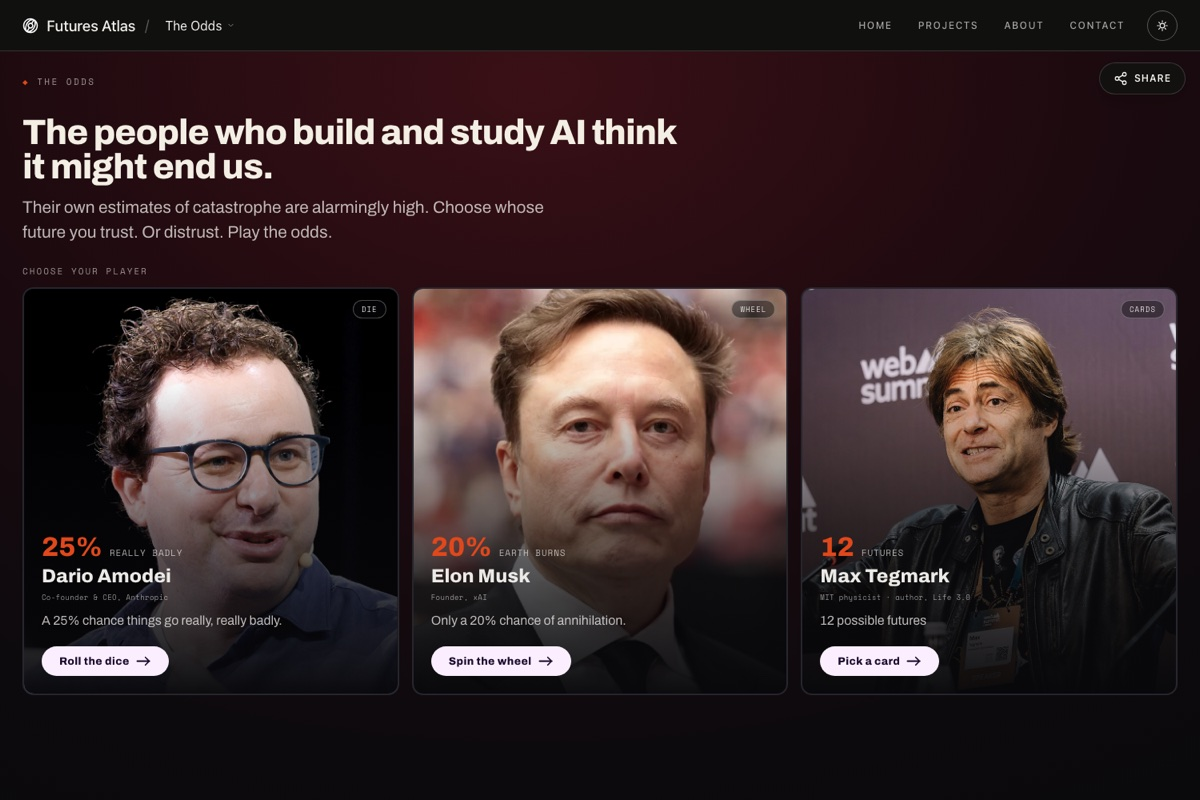
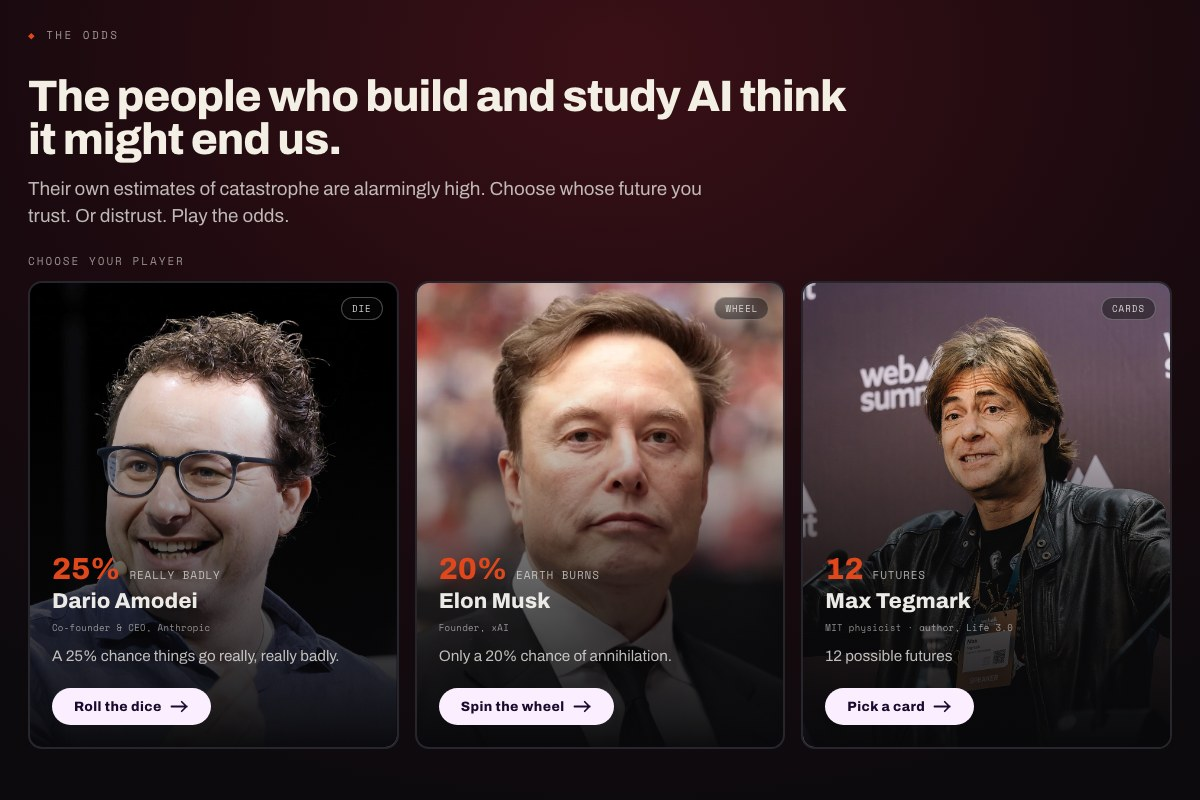
The Odds: fix mobile doom-video full-bleed, dice legend legibility, Dario portrait consistency; add real play-stats page; gate TEST buttons off production; clean project-card thumbnail + CTA
- .od-portrait-loop was missing from the mobile portrait-band CSS, so the doom loop clip fell back to full-bleed instead of staying in its 40vw band
- dice legend (1-9/10-12 key) was 8.5px on mobile and getting clipped; bumped to 10.5px
- Dario's chooser/hero photo didn't match his portraitPoster/video first frame; unified on dario-first.jpg for a seamless transition
- new /theodds/stats page + /api/theodds/stats (KV-backed, same pattern as feed polls) tracks real play/doom counts; shows "not configured" honestly rather than a fabricated number
- TEST good/bad buttons now hidden only on the production hostname (futures-atlas-02.vercel.app), still visible on localhost/staging/drafts
- re-shot the project-card thumbnail without the navbar in frame; card CTA is now overridable per-project ("Play the odds" for this one)

diff --git a/public/odds-of-surviving-ai/index.html b/public/odds-of-surviving-ai/index.html
@@ -202,8 +202,10 @@ body.od-menu-open .od-extinctions{display:none!important}
   .od-photo{flex:0 0 32%!important;height:auto!important;min-height:0;
     display:flex!important;flex-direction:row;align-items:stretch;gap:0;padding:0!important;background:#08080a;overflow:hidden}
   .od-photo-scrim{display:none!important}
-  /* portrait = left 40%; the video portraits (Elon/Dario) match the photo layout instead of going full-bleed */
-  .od-hero-img,.od-portrait-vid{position:relative!important;inset:auto!important;height:100%!important;width:auto!important;
+  /* portrait = left 40%; the video portraits (Elon/Dario) match the photo layout instead of going full-bleed.
+     .od-portrait-loop must match: it's the loop clip swapped in once the one-shot doom video ends, over the
+     same box — without it here it falls back to its inline full-bleed style and the panel jumps to 100vw. */
+  .od-hero-img,.od-portrait-vid,.od-portrait-loop{position:relative!important;inset:auto!important;height:100%!important;width:auto!important;
     aspect-ratio:3/4;max-width:40vw;flex:none!important;border-radius:0!important;object-fit:cover!important;object-position:50% 18%!important;background:#08080a}
   /* info = right 60%, on black with a red glow. The glow is tucked into the TOP-right corner and dies
      out before the bottom edge — down there the band meets the game panel's blue sky, and a warm
@@ -246,7 +248,7 @@ body.od-menu-open .od-extinctions{display:none!important}
   .od-result{gap:4px!important}
   .od-key{margin-bottom:5px!important}
   .od-key--drawn{display:none!important}   /* card is face-up: give its description the room */
-  .od-key-labels{font-size:8.5px!important;gap:12px;letter-spacing:0.04em!important}
+  .od-key-labels{font-size:10.5px!important;gap:12px;letter-spacing:0.03em!important}
   .od-key-labels span{flex:1 1 0;min-width:0}                         /* let the long "REALLY, REALLY BAD" wrap, not clip */
   .od-key-labels span:last-child{text-align:right}
   .od-rhead{font-size:clamp(15px,2.2vh,19px)!important}
@@ -280,8 +282,10 @@ body.od-menu-open .od-extinctions{display:none!important}
 .od-landing{height:calc(100dvh - var(--fa-nav-h, 56px));overflow:hidden;display:flex;flex-direction:column;align-items:center;background:radial-gradient(ellipse 70% 75% at 50% 14%, #3a1016 0%, #1c0a0f 38%, #0c0a0d 70%, #08080a 100%);background-size:175% 175%;background-repeat:no-repeat;animation:odBgDrift 26s ease-in-out infinite;padding:clamp(16px,3vh,30px) 28px clamp(18px,3.2vh,32px)}
 @keyframes odBgDrift{0%{background-position:30% 16%}25%{background-position:64% 30%}50%{background-position:74% 12%}75%{background-position:40% 36%}100%{background-position:30% 16%}}
 .od-land-wrap{width:100%;max-width:none;height:100%;display:flex;flex-direction:column}
-.od-land-head{display:flex;justify-content:space-between;font-family:'Space Mono',monospace;font-size:11px;letter-spacing:0.22em;color:rgba(236,234,230,0.62)}
+.od-land-head{display:flex;justify-content:space-between;align-items:baseline;font-family:'Space Mono',monospace;font-size:11px;letter-spacing:0.22em;color:rgba(236,234,230,0.62)}
 .od-land-head .od-mark{color:#E0481B}
+.od-stats-link{display:none;color:rgba(236,234,230,0.5);text-decoration:none;font-size:10px;letter-spacing:0.18em}
+.od-stats-link:hover{color:#ECEAE6}
 .od-eyebrow{margin-top:clamp(14px,3vh,28px);font-family:'Space Mono',monospace;font-size:11px;letter-spacing:0.26em;color:#E0481B}
 .od-headline{margin-top:12px;max-width:820px;font-family:'Archivo',system-ui,sans-serif;font-weight:800;font-size:clamp(26px,calc(3.4vw + 0.9vh),44px);line-height:0.98;letter-spacing:-0.025em;color:#F4EFE4}
 .od-intro{margin-top:14px;max-width:680px;font-family:'Archivo',sans-serif;font-size:clamp(16px,2.1vh,22px);line-height:1.45;color:rgba(236,234,230,0.78)}
@@ -316,6 +320,7 @@ body.od-menu-open .od-extinctions{display:none!important}
   .od-intro{display:none}
   .od-pcard-teaser{font-size:12px}
   .od-land-cta{align-self:stretch;text-align:center;margin-top:14px}
+  .od-stats-link{display:inline-block}
 }
 @media(max-width:680px){ .od-landing{padding-left:14px;padding-right:14px} }
 
@@ -336,6 +341,7 @@ body.od-menu-open .od-extinctions{display:none!important}
   <div class="od-land-wrap">
     <div class="od-land-head">
       <span><span class="od-mark">◆</span> THE ODDS</span>
+      <a href="/theodds/stats" class="od-stats-link">STATS</a>
     </div>
     <h1 class="od-headline" style="margin-top:clamp(18px,3.5vh,34px)">The people who build and study AI think it might end us.</h1>
     <p class="od-intro">Their own estimates of catastrophe are alarmingly high. Choose whose future you trust. Or distrust. Play the odds.</p>
@@ -441,7 +447,7 @@ body.od-menu-open .od-extinctions{display:none!important}
 
     <!-- TEST ONLY: force the next roll/spin/pick outcome (applies once). Remove before ship. -->
     <sc-if value="{{ isPlay }}">
-      <sc-if value="{{ notCards }}">
+      <sc-if value="{{ showTest }}">
         <div class="od-forcetest">
           <span>TEST</span>
           <button onClick="{{ forceGood }}" class="od-forcebtn {{ forceGoodCls }}">GOOD</button>
@@ -629,12 +635,15 @@ class Component extends DCLogic {
     extinctions: (function(){ try { return parseInt(localStorage.getItem('theodds_extinctions'), 10) || 0; } catch (e) { return 0; } })(),
   };
 
+  // TEST good/bad buttons: everywhere except the live production domain (local, staging previews, drafts all show them)
+  isLive = (function(){ try { return location.hostname === 'futures-atlas-02.vercel.app'; } catch (e) { return false; } })();
+
   order = ['amodei', 'musk', 'tegmark'];
 
   players = {
     amodei: {
       short: 'Dario', name: 'Dario Amodei', role: 'Co-founder & CEO, Anthropic',
-      photo: '/odds-of-surviving-ai/research/dario-amodei.jpg',
+      photo: '/odds-of-surviving-ai/research/dario-first.jpg',   // same still as portraitPoster/video first frame → seamless
       credit: 'Photo: TechCrunch, CC BY 2.0',
       teaser: 'A 25% chance things go really, really badly.', teaserNum: '25%',
       oddsBig: '25%', oddsCaption: 'CHANCE IT GOES REALLY, REALLY BADLY', oddsCap: 'REALLY BADLY',
@@ -1299,8 +1308,13 @@ class Component extends DCLogic {
     }
     this.setState({ extinctions: n });
   }
+  // fire-and-forget: one real tally, shared across everyone who plays — /theodds/stats reads it back
+  recordPlay(isDoom) {
+    try { fetch('/api/theodds/stats', { method: 'POST', headers: { 'content-type': 'application/json' }, body: JSON.stringify({ outcome: isDoom ? 'doom' : 'survive' }), keepalive: true }); } catch (e) {}
+  }
 
   resolve(isDoom, p, card) {
+    this.recordPlay(isDoom);
     if (isDoom) { this.doomTone(); this.bumpExtinctions(); } else this.survive();
     if (this.state.mode === 'gauntlet') {
       const results = this.state.gResults.concat(!isDoom);
@@ -1470,6 +1484,7 @@ class Component extends DCLogic {
       extinctions: String(s.extinctions), showExt: !isLanding && !s.menuOpen,
 
       isDie: p.mechanic === 'die', isWheel: p.mechanic === 'wheel', isCards: p.mechanic === 'cards', notCards: p.mechanic !== 'cards',
+      showTest: p.mechanic !== 'cards' && !this.isLive,
       reducedFlag: this.reduced ? '1' : '0', dieToken: s.dieToken + ':' + (this._diePower != null ? this._diePower : 0.55), dieTarget: String(s.dieTarget),
       dieMuseum: s.dieMuseum, dieEncase: s.dieMuseum ? '1' : '0', dieEncaseMs: String(p.doomClipMs || 5000),
       wheelGradient, wheelTicks, wheelRot: s.wheelRot.toFixed(1),

diff --git a/public/odds-of-surviving-ai/stats.html b/public/odds-of-surviving-ai/stats.html
@@ -1,0 +1,82 @@
+<!DOCTYPE html>
+<html lang="en">
+<head>
+<meta charset="utf-8">
+<meta name="viewport" content="width=device-width, initial-scale=1">
+<title>Stats — The Odds</title>
+<meta name="description" content="How everyone's plays of The Odds have actually gone — a real, running tally." />
+<meta property="og:type" content="website" />
+<meta property="og:site_name" content="Futures Atlas" />
+<meta property="og:title" content="The Odds · Stats — Futures Atlas" />
+<meta property="og:description" content="How everyone's plays of The Odds have actually gone — a real, running tally." />
+<meta property="og:url" content="https://futures-atlas-02.vercel.app/theodds/stats" />
+<meta property="og:image" content="https://futures-atlas-02.vercel.app/og/the-odds.png" />
+<meta name="twitter:card" content="summary_large_image" />
+<meta name="twitter:image" content="/projects/odds-of-surviving-ai.jpg" />
+<meta name="robots" content="noindex" />
+<link rel="icon" href="/favicon.svg" type="image/svg+xml" />
+<link rel="icon" href="/favicon-dark.svg" type="image/svg+xml" media="(prefers-color-scheme: dark)" />
+<link rel="preconnect" href="https://fonts.googleapis.com">
+<link rel="preconnect" href="https://fonts.gstatic.com" crossorigin>
+<link href="https://fonts.googleapis.com/css2?family=Space+Mono:wght@400;700&family=Archivo:wght@500;600;700;800&display=swap" rel="stylesheet">
+<style>
+:root{--bg:#08080a;--panel:#141416;--line:rgba(236,234,230,0.12);--line2:rgba(236,234,230,0.24);--text:#ECEAE6;--muted:rgba(236,234,230,0.62);--faint:rgba(236,234,230,0.4);--accent:#E0481B}
+*{box-sizing:border-box;margin:0;padding:0}
+body{background:var(--bg);color:var(--text);font-family:'Space Mono',monospace;padding-top:50px;-webkit-font-smoothing:antialiased}
+.wrap{max-width:720px;margin:0 auto;padding:clamp(40px,8vh,84px) clamp(20px,5vw,40px) 90px}
+.eyebrow{font-size:11px;letter-spacing:0.22em;text-transform:uppercase;color:var(--accent)}
+h1{font-family:'Archivo',sans-serif;font-weight:800;font-size:clamp(30px,5vw,46px);line-height:1.02;letter-spacing:-0.02em;margin:14px 0 0}
+.lead{font-size:14.5px;line-height:1.65;color:var(--muted);max-width:56ch;margin-top:16px}
+.stat-grid{display:grid;grid-template-columns:1fr 1fr;gap:16px;margin-top:44px}
+.stat{background:var(--panel);border:1px solid var(--line);border-radius:14px;padding:22px 20px}
+.stat b{display:block;font-family:'Archivo',sans-serif;font-weight:800;font-size:clamp(34px,7vw,52px);line-height:1;color:var(--accent)}
+.stat.is-good b{color:#ECEAE6}
+.stat span{display:block;margin-top:8px;font-size:10.5px;letter-spacing:0.1em;text-transform:uppercase;color:var(--faint)}
+.note{margin-top:22px;font-size:12.5px;line-height:1.6;color:var(--faint)}
+.unconfigured{margin-top:44px;padding:20px;border:1px dashed var(--line2);border-radius:14px;font-size:13px;line-height:1.6;color:var(--muted)}
+.back{display:inline-block;margin-top:40px;font-size:11px;letter-spacing:0.14em;text-transform:uppercase;color:var(--muted);text-decoration:none}
+.back:hover{color:var(--text)}
+@media(max-width:520px){.stat-grid{grid-template-columns:1fr}}
+</style>
+<link rel="stylesheet" href="/atlas-nav.css">
+<style>body{padding-top:var(--fa-nav-h,50px)!important}</style>
+<script src="/atlas-nav.js" defer></script>
+</head>
+<body>
+
+<div class="wrap">
+  <div class="eyebrow">The Odds</div>
+  <h1>How it's actually gone.</h1>
+  <p class="lead">A real, running tally of every roll, spin and card pick since this launched — not a projection, not a guess. Nothing about who played is stored, just the outcome.</p>
+
+  <div id="loaded" style="display:none">
+    <div class="stat-grid">
+      <div class="stat is-good"><b id="playsN">—</b><span>plays recorded</span></div>
+      <div class="stat"><b id="doomPct">—</b><span>ended in doom — things went really, really badly</span></div>
+    </div>
+    <p class="note" id="doomN"></p>
+  </div>
+
+  <div id="unconfigured" class="unconfigured" style="display:none">
+    Plays aren't being recorded right now — the stats store isn't configured on this deployment.
+  </div>
+
+  <a href="/theodds" class="back">← Back to The Odds</a>
+</div>
+
+<script>
+fetch('/api/theodds/stats', { cache: 'no-store' })
+  .then(function(r){ return r.json(); })
+  .then(function(d){
+    if (!d || !d.ok || !d.configured) { document.getElementById('unconfigured').style.display = 'block'; return; }
+    var plays = d.plays || 0, doom = d.doom || 0;
+    var pct = plays ? Math.round((doom / plays) * 100) : 0;
+    document.getElementById('playsN').textContent = plays.toLocaleString();
+    document.getElementById('doomPct').textContent = pct + '%';
+    document.getElementById('doomN').textContent = doom.toLocaleString() + ' of ' + plays.toLocaleString() + ' plays reached a doom scenario.';
+    document.getElementById('loaded').style.display = 'block';
+  })
+  .catch(function(){ document.getElementById('unconfigured').style.display = 'block'; });
+</script>
+</body>
+</html>

diff --git a/src/lib/theodds/stats-store.ts b/src/lib/theodds/stats-store.ts
@@ -1,0 +1,77 @@
+/**
+ * The Odds — play tallies. Same dual-backend pattern as feed/poll-store.ts
+ * (Upstash REST or REDIS_URL via ioredis), same graceful degradation: with no
+ * store provisioned, reads return null and the stats page says so instead of
+ * inventing a number nobody produced.
+ *
+ * One hash, two fields: `plays` (every resolved roll/spin/pick) and `doom`
+ * (the subset that ended in doom). Counts only — nothing about who played.
+ */
+import Redis from "ioredis";
+import { Redis as UpstashRedis } from "@upstash/redis";
+
+interface S {
+  hgetall(key: string): Promise<Record<string, string>>;
+  hincrby(key: string, field: string, by: number): Promise<void>;
+}
+
+let s: S | null | undefined;
+
+function store(): S | null {
+  if (s !== undefined) return s;
+  const restUrl = process.env.KV_REST_API_URL;
+  const restToken = process.env.KV_REST_API_TOKEN;
+  const redisUrl = process.env.REDIS_URL;
+
+  if (restUrl && restToken) {
+    const r = new UpstashRedis({ url: restUrl, token: restToken });
+    s = {
+      hgetall: async (k) => (await r.hgetall<Record<string, string>>(k)) ?? {},
+      hincrby: async (k, f, by) => {
+        await r.hincrby(k, f, by);
+      },
+    };
+  } else if (redisUrl) {
+    const r = new Redis(redisUrl, { maxRetriesPerRequest: 3, lazyConnect: false });
+    s = {
+      hgetall: async (k) => ((await r.hgetall(k)) as Record<string, string>) ?? {},
+      hincrby: async (k, f, by) => {
+        await r.hincrby(k, f, by);
+      },
+    };
+  } else s = null;
+
+  return s;
+}
+
+const KEY = "fa:theodds:stats";
+
+export const statsConfigured = () => store() !== null;
+
+export interface Tally {
+  plays: number;
+  doom: number;
+}
+
+export async function readStats(): Promise<Tally | null> {
+  const st = store();
+  if (!st) return null;
+  try {
+    const raw = await st.hgetall(KEY);
+    return { plays: Number(raw.plays) || 0, doom: Number(raw.doom) || 0 };
+  } catch {
+    return null;
+  }
+}
+
+export async function recordOutcome(isDoom: boolean): Promise<boolean> {
+  const st = store();
+  if (!st) return false;
+  try {
+    await st.hincrby(KEY, "plays", 1);
+    if (isDoom) await st.hincrby(KEY, "doom", 1);
+    return true;
+  } catch {
+    return false;
+  }
+}

diff --git a/src/app/api/theodds/stats/route.ts b/src/app/api/theodds/stats/route.ts
@@ -1,0 +1,47 @@
+/**
+ * GET  /api/theodds/stats               → { ok, configured, plays, doom }
+ * POST /api/theodds/stats  { outcome }  → { ok, plays, doom }
+ *
+ * Counts only. Nothing identifying is stored, and when no store is
+ * provisioned the route says `configured: false` so the stats page can tell
+ * the reader plays aren't being recorded instead of showing a number nobody
+ * produced.
+ */
+import { NextResponse } from "next/server";
+import { readStats, recordOutcome, statsConfigured } from "@/lib/theodds/stats-store";
+
+export const runtime = "nodejs";
+export const dynamic = "force-dynamic";
+
+export async function GET() {
+  const configured = statsConfigured();
+  const stats = await readStats();
+  return NextResponse.json(
+    { ok: true, configured, plays: stats?.plays ?? 0, doom: stats?.doom ?? 0 },
+    { headers: { "cache-control": "no-store" } },
+  );
+}
+
+export async function POST(req: Request) {
+  let body: { outcome?: unknown };
+  try {
+    body = await req.json();
+  } catch {
+    return NextResponse.json({ ok: false, code: "bad_request" }, { status: 400 });
+  }
+
+  if (body.outcome !== "doom" && body.outcome !== "survive") {
+    return NextResponse.json({ ok: false, code: "bad_request" }, { status: 400 });
+  }
+
+  if (!statsConfigured()) {
+    return NextResponse.json({ ok: false, code: "not_configured" }, { status: 503 });
+  }
+
+  await recordOutcome(body.outcome === "doom");
+  const stats = await readStats();
+  return NextResponse.json(
+    { ok: true, plays: stats?.plays ?? 0, doom: stats?.doom ?? 0 },
+    { headers: { "cache-control": "no-store" } },
+  );
+}

diff --git a/src/data/projects.ts b/src/data/projects.ts
@@ -30,6 +30,7 @@ export interface Project {
   url?: string; // external link if it exists
   path?: string; // internal path served within this site (e.g. "/coastlines-2100")
   image?: string; // card thumbnail (else a hatch plate)
+  cta?: string; // card link label when live, default "Open the project"
   accent?: string; // optional per-project accent colour (CSS value), set on the project layout
   inHub?: boolean; // true = a route group inside this app (scaffolded), with /<slug>/research + /contact
 }
@@ -60,6 +61,7 @@ export const projects: Project[] = [
     visibility: "live",
     path: "/theodds", // self-contained bundle served within this site (physically at /odds-of-surviving-ai/)
     image: "/projects/odds-of-surviving-ai.jpg",
+    cta: "Play the odds",
   },
   {
     id: "signal-reactor",

diff --git a/src/components/ProjectCard.tsx b/src/components/ProjectCard.tsx
@@ -99,7 +99,7 @@ export function ProjectCard({
             color: "var(--text)",
           }}
         >
-          {live ? "Open the project" : "Forthcoming"}
+          {live ? project.cta ?? "Open the project" : "Forthcoming"}
           {live && <span>{project.path ? "→" : "↗"}</span>}
         </span>
       </div>
